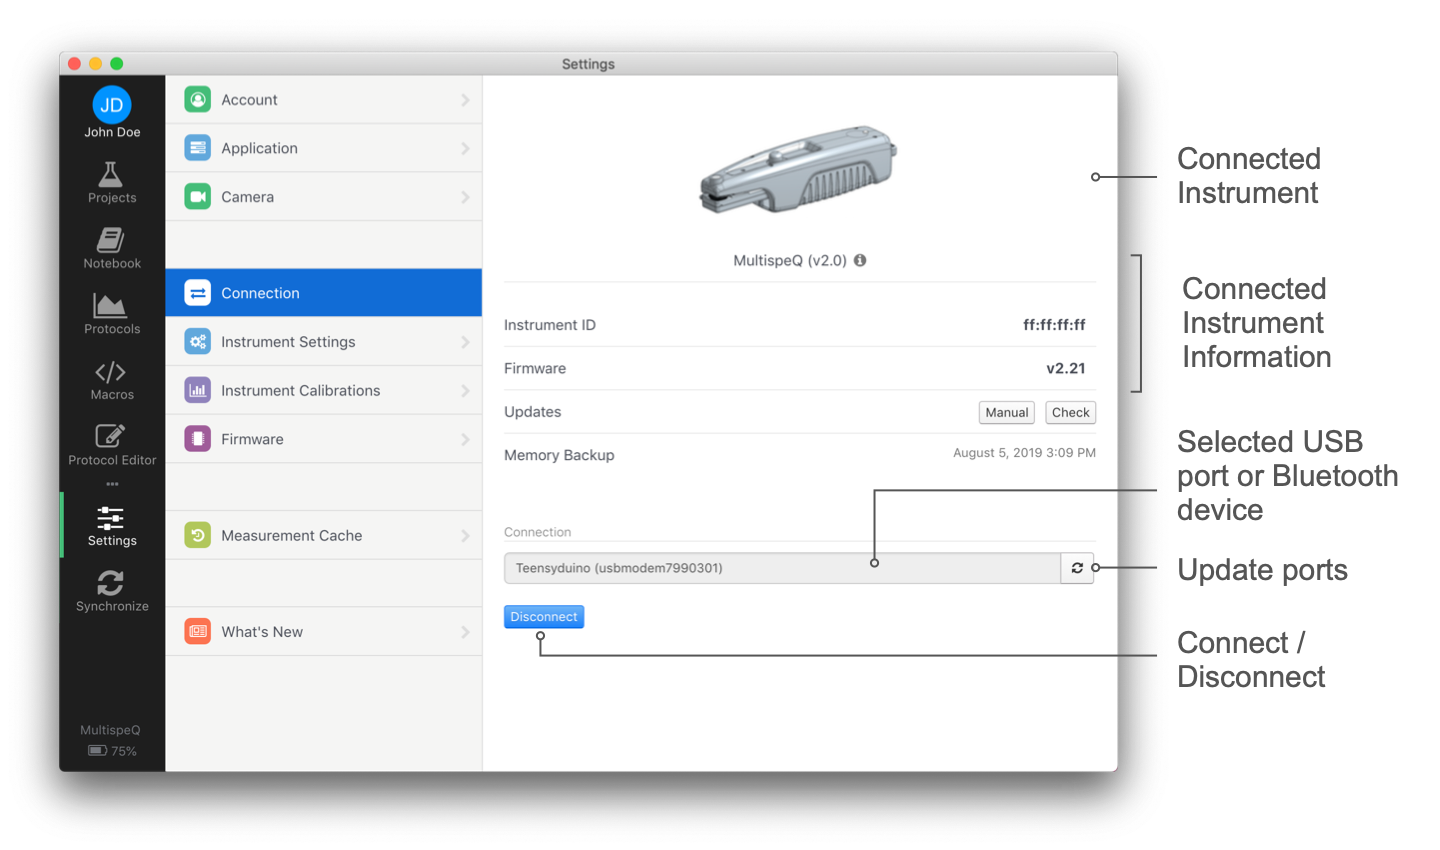
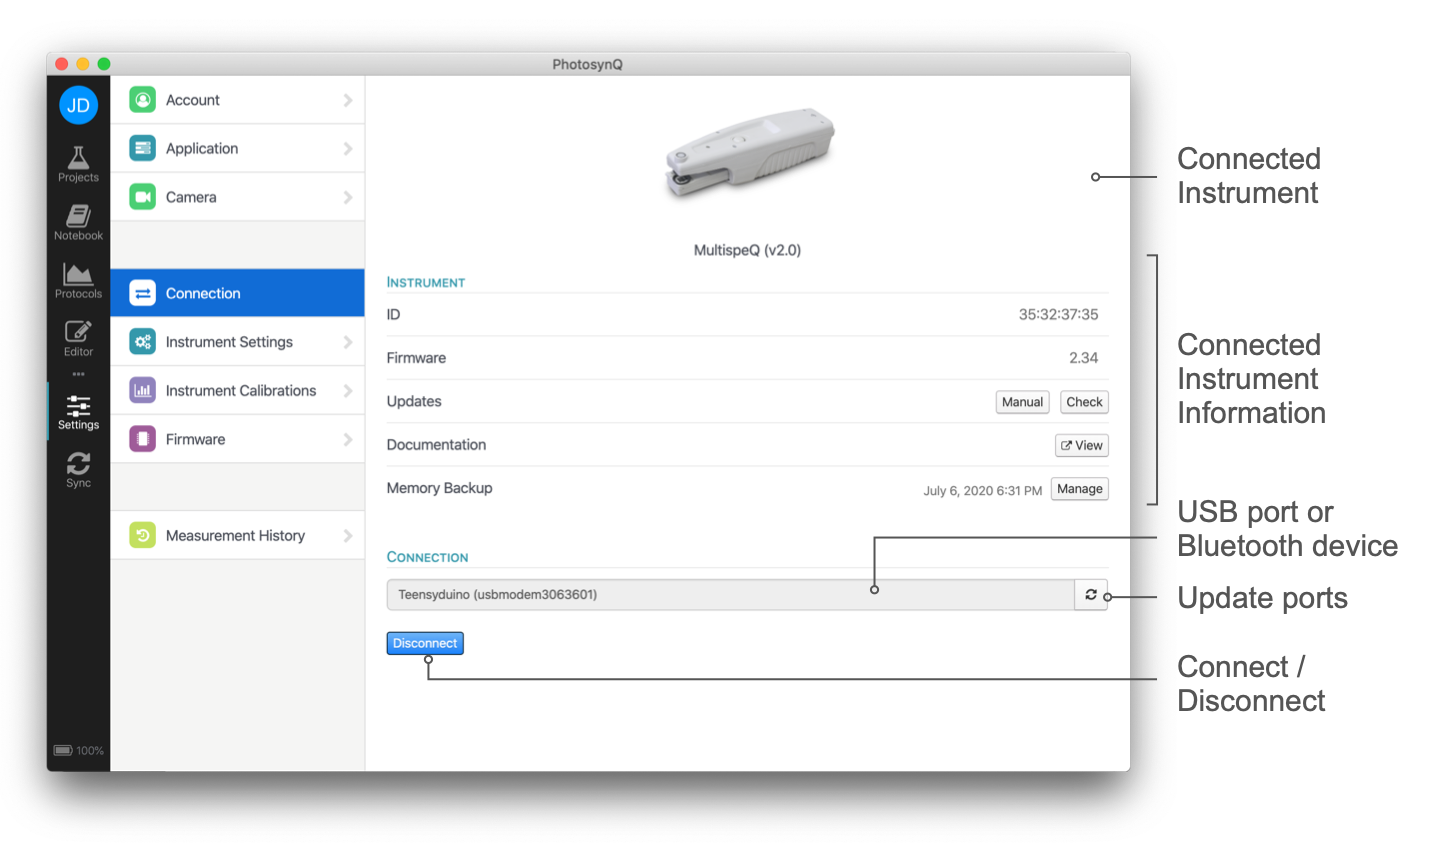
Update Desktop Application Screenshots

diff --git a/docs/macros/create-edit-a-macro.md b/docs/macros/create-edit-a-macro.md
@@ -1,44 +1,30 @@
 # Create / Edit a Macro
 
-If you want to analyze a measurement using your own calculation, create a macro to do the calculation for you. When a Protocol has a Macro associated, the Macro will calculate all parameters derived from the measurement immediately after the measurement is done. When the measurement is saved for a Project, the raw measurement is sent to the cloud where the macro will do the calculations again.
+If you want to analyze a measurement using your own calculation, utilize a Macro to do the calculation for you. A Protocol has a Macro automatically associated which will calculate all parameters derived from the measurement immediately after the measurement is done. When the measurement is saved for a Project, the raw measurement is sent to the cloud where the macro will do the calculations again. If a Protocol/Macro gets changed, all values will be recalculated again.
 
 ![The Macro Editor](./images/macro-editor.png)
 
-## Create New Macro
+## Create a Macro
 
 1. Make sure you have the Desktop Application installed and you are signed in.
-2. Select **New Macro...** from the File menu.
-3. Select a measurement from the dialog that the macro should analyze. The measurements are selected from the notebook. If you don't have a measurement saved to your notebook, take one with the protocol the macro is for save it to your notebook.
+2. Select the **Protocol** you want to create the Macro for.
+3. Attach a measurement to the Macro
+   1. Select a measurement from the Notebook that was saved using the Protocol the Macro will be created for.
+   2. Run the Protocol from the Protocol Editor and use the "Add To Editor" button after the measurement is done.
 4. Start coding...
 
-If you need more help on how to get started, please look at this [Tutorial](../tutorials/building-a-macro.md)
+If you need more help on how to get started, please look at the [example](./create-edit-a-macro.md#example-calculating-photosystem-ii-efficiency) below.
 
 ## Edit a Macro
 
-You can change one of your Macros or extend an already existing one at any time.
+You can change or extend Macros connected to a Protocol at any time.
 
-1. Select **Macros** from the left menu bar.
-2. Double click on the macro in the list or click on **Edit** in the sidebar.
+1. Select the **Protocol** you want to update the Macro for.
+2. Click on **Edit** in the sidebar.
 3. Make your changes to the code.
-4. Select **Save as...** from the File menu or use the shortcut <kbd>Ctrl/⌘</kbd>+<kbd>Shift/⇧</kbd>+<kbd>S</kbd>.
+4. Select **Save...** from the File menu or use the shortcut <kbd>Ctrl/⌘</kbd>+<kbd>S</kbd>.
 5. Update the description if needed.
-6. Save the changes by **Save As**.
-
-::: tip Tip
-In case you altered a macro someone else had made, change the name too. In this case you only have the option **Save as**.
-:::
-
-## Save a Macro
-
-Once you are done, save your work and share it with the community.
-
-1. When you have the Macro Editor open, select **Save** from the File menu or use the shortcut <kbd>Ctrl/⌘</kbd>+<kbd>S</kbd>.
-2. In the save dialog, add a macro name and description.
-3. Save the macro by selecting **Save**.
-
-## Connecting a Macro
-
-Once you have the Macro finished, you can open the Protocol in the Protocol Editor and select the Macro from the dropdown list from the menu. Then save the Protocol again to connect the Macro. Now when the Protocol is run, it will return the calculations that have been done by the Macro after the measurement is done.
+6. Save the changes by **Save**.
 
 ## After Macro Updates
 
@@ -49,12 +35,11 @@ When updating a Macro for a Protocol that is used in a Project, the update will 
 If you have issues saving the macro, make sure you check these things first:
 
 - When a Macro is done, make sure the output box is green, indicating that there was no error.
-- Make sure you have a name and description.
-- Check that the name is not already existing.
+- Check several different measurements to make sure the Macro code works with different traces/numbers.
 
 ## Example - Calculating Photosystem II efficiency
 
-In the [previous tutorial](./building-a-protocol.md) we built a protocol to measure photosystem II efficiency. Now we can build a simple macro to automatically calculate it every time you take a measurement.
+In the [protocol example](../protocols/create-edit-protocol.md#example-photosystem-ii-efficiency) we built a protocol to measure photosystem II efficiency. Now we can build a simple macro to automatically calculate it every time you take a measurement.
 
 ### Initial Code
 
@@ -82,7 +67,9 @@ return output;
 
 In order to calculate the parameters **Fs** (steady state fluorescence) and **Fmp** (maximum fluorescence), you have to access the recorded fluorescence trace. The Macro editor allows you to select the regions, by using the graph of the trace. In the example below, check range and select the region of interest. Then click on the <i class="fa fa-arrows-h"></i> icon to add the selected range into your code, `json.data_raw.slice(63,68)` in this case. We use the already pre-defined method `MathMEAN( array )` from the Function Menu to calculate the mean of the values in the selected range.
 
-![Selecting a range of values using the Macro editor](./images/macros-building-a-macro.png)
+| Select a Single Value | Select a Range of Values |
+| ------------ | -------------- |
+| ![Select a single value using the Macro Editor](./images/trace-variable.png) | ![Selecting a range of values using the Macro Editor](./images/trace-select-range.gif) |
 
 ```javascript
 var fs = MathMEAN(json.data_raw.slice(1,5));
@@ -148,25 +135,26 @@ return output;
 
 ### Output
 
-    Fs = 5817.25
-    Fmp = 13056.6
-    Phi2 = 0.554
-    LEF = 3.770
-    PAR = 17
+```
+Fs = 5817.25
+Fmp = 13056.6
+Phi2 = 0.554
+LEF = 3.770
+PAR = 17
+```
 
 [JavaScript_URL]: https://www.w3schools.com/js/
 [Desktop App]: https://photosynq.org/software#desktop
-
 
 ## Example - Advanced Macro
 
 When building a Macro for a Protocol using the `_protocol_set_` command, you start of the same way as building a macro described in the previous example ([Building a Macro](./building-a-macro.md)). But since a protocol set was used, accessing the retuned Parameters has changed a little.
 
-### The `json.set` Object
+### The `json.set` Object (Variables)
 
-The object `json` is no longer holding all the measured Parameters as shown in the previous tutorial. Instead it has a key called `set` with all Protocols from the Protocol Set. Since `json.set` is an array of Protocols, you have to provide the index as well. If you want to access the third Protocol for example, you simply use `json.set[2]`. This can get a bit confusing, when you are using multiple Protocols inside your Set. To make it more accessible, the Macro Editor provides a dropdown menu in the top menu bar with all available Protocols inside a Set numbered starting from 0. If you use the `label` command inside each protocol, you will see the label in the dropdown menu making the access easier. After selecting the Protocol from the Set, use **Variables** from the top menu, to see and access all Parameters in the selected Protocol.
+The object `json` is no longer holding all the measured Parameters as shown in the previous tutorial. Instead it has a key called `set` with all Protocols from the Protocol Set. Since `json.set` is an array of Protocols, you have to provide the index as well. If you want to access the third Protocol for example, you simply use `json.set[2]`. This can get a bit confusing, when you are using multiple Protocols inside your Set. To make it more accessible, the Macro Editor provides a tree view for variables in each Protocol the side menu bar. To show the sidebar select the <i class="fa fa-cubes"></i> Variables button from the top menu. When selecting a variable, the value as well as the path (e.g. `json.set[2]`) is shown. If you use the `label` command inside each protocol, you will see the label in the tree view making the access easier. A double click will insert the path into your code.
 
-![Use the dropdown menu to select a specific Protocol Set. You can use the Variables from the menu, as well as the selector for the Raw Traces.](./images/macros-select-protocol-from-set.png)
+![Use the tree menu to select a specific variable from a Protocol Set. You can click on a variable to view its value or the trace and double click it to insert it into the code.](./images/macros-variables-menu.png)
 
 ### Simple Protocol Set Example
 
@@ -192,7 +180,7 @@ return output;
 
 ### Multiple Detectors
 
-In the previous example for a simple for ([Building a Macro](./building-a-macro.md)) only one detector was used. But it can happen, that a measurement requires multiple detectors. This can be accomplished in two different ways as described. The number of data-points within the `data_raw` element in both examples the same, but the way the data is collected is fundamentally different (see [Detectors - Output Examples](../protocols/detectors.md#examples)).
+In the previous [example](./create-edit-a-macro.md#example-calculating-photosystem-ii-efficiency) for a simple Macro only one detector was used. But it can happen, that a measurement requires multiple detectors. This can be accomplished in two different ways as described. The number of data-points within the `data_raw` element in both examples the same, but the way the data is collected is fundamentally different (see [Detectors - Output Examples](../protocols/detectors.md#examples)).
 
 ### One Detector per Pulse-Set
 

diff --git a/docs/macros/coding-and-functions.md b/docs/macros/coding-and-functions.md
@@ -2,10 +2,13 @@
 
 ## Basic Guidelines
 
-+ Document your steps inside the code.
-+ Test your code with more than one measurement.
++ Document your steps inside the code so others can easily understand your workflow as well.
 + Make sure that the code is fast and efficient.
-+ Output only what is really necessary to not overwhelm others who will use your macro based analysis.
+  + **Time:** The runtime of your calculations (script) in milliseconds (maximum is 2000 ms).
+  + **Size:** The size is shown in kilobytes (kb). Even though currently there is no limit, try to keep it small, in the interest of future analysis of large data sets.
+  + **Elements:** The number of parameters returned. Keep this to the necessary ones, otherwise it can become quite overwhelming when viewing the data.
++ Make use of provided functions for a faster development.
++ Test your code with more than one measurement and make sure issues are captured to prevent the script from failing before it finishes.
 
 ::: warning Note
 Try to make your code efficient, since it can be used to evaluate several thousand measurements in a row.
@@ -20,14 +23,10 @@ Try to make your code efficient, since it can be used to evaluate several thousa
  * created: June 25, 2018 1:37 PM
  */
 
- // Define the output object here
+// Define the output object here
 var output = {};
 
-// Check if the key time exists in json
-if (json.time !== undefined){
-    // Add key time and value to output
-    output.time = json.time;
-}
+/* Your Code goes here */
 
 // Return data
 return output;
@@ -40,8 +39,6 @@ return output;
 + To access parameters from your Measurement use the **Variables** Menu. Variables selected will look like this: `json.variable` in the code.
 + Use the `Raw Trace` in the upper right corner to select a subsection of your trace if available.
 
-***
-
 ## Helper Functions
 
 Some functions are needed over and over again, like calculating the average, finding the maximum, etc. Just pick the function you need from the functions menu and it will get inserted at the position of your cursor into your code.
@@ -51,8 +48,6 @@ Some functions are needed over and over again, like calculating the average, fin
 var values = [1,2,3,4,5,6];
 output['Mean'] = MathMEAN(values);
 ```
-
-***
 
 ### Order Parameters
 
@@ -65,8 +60,6 @@ output["order"] = ["P1","P3","P2"];
 
 Just replace `P1`, `P2`, etc. with the names of the parameters you want to be ordered and appear on top of the list. Not all parameters need to be listed here.
 
-***
-
 ### Show additional Traces
 
 The recorded trace `json.data_raw` will be shown with a measurement. In case you would like to show some extra traces based on your calculations, just add an array to your output parameters. This array need _more than 4 values_ to be shown as a spark-line.
@@ -75,8 +68,6 @@ The recorded trace `json.data_raw` will be shown with a measurement. In case you
 // Add a trace to macro output
 output["Additional Trace"] = [1,3,4,90,87,50,3,2,1,2,7,…];
 ```
-
-***
 
 ### Show Colors
 
@@ -97,34 +88,29 @@ output['Your Parameter'] = 'rgb(52, 152, 171)';
 output['Your Parameter'] = 'rgba(52, 152, 171, 0.5)';
 ```
 
-***
-
 ### Return Feedback
 
 If people take measurements in the field, they might run into quality issues, they cannot identify right away. Based on calculations you can add messages to alert users, that they might have to repeat the measurement. Three types of messages are available:
 
-+ **Info**: Just let users know that (color:blue)
++ **Info**: Just give users some feedback on the measurement (color:blue)
 + **Warning**: Give users a warning, that there might be something wrong and they should take a closer look (color: yellow)
 + **Danger**: Use this message, when you think something went terribly wrong. In the future, measurements containing this message will be flagged as bad data points automatically. (color:red)
-
-To add messages, use the Functions menu and select the type of measurement you need. Replace the word `message` with your message.
++ Try to be short and precise.
 
 ```javascript
 // Info message
-info('message',output);
+info('Your message text',output);
 
 // Warning message
-warning('message',output);
+warning('Your message text',output);
 
 // Danger message
-danger('message',output);
+danger('Your message text',output);
 ```
 
-***
+## Restrictions
 
-### Restrictions
-
-Some of the functions available in JavaScript are not allowed to be used in macros. All functions that require a user response like `alert`, `confirm` and `prompt` are not allowed. Also defining new functions or overwriting existing functions `function(){…}` is forbidden, as well as extending the prototype library `$.prototype`.
+Some of the functions available in JavaScript are not allowed to be used in macros, like functions that require a user response like `alert`, `confirm` and `prompt`. Also overwriting existing functions, as well as extending the prototype library `$.prototype` is forbidden.
 
 [JavaScript_URL]: https://www.w3schools.com/js/
 

diff --git a/docs/macros/macro-basics.md b/docs/macros/macro-basics.md
@@ -1,6 +1,8 @@
 # Macro Basics
 
-All the macros you have developed on PhotosynQ are accessible to you at any time.
+::: warning Workflow Change
+With the latest version of the Desktop Application (v1.9.x), Protocols and Macros are saved and edited together as one unit. In contrast to previous versions, Macros are no longer accessed separately but as a part of a Protocol. However, their functionality has not changed. Previous Macros and Protocols are fully compatible with the new View and Editor and workflow.
+:::
 
 Macros are small snippets of code, which run calculations based on your measurements. They are written in the popular script language [JavaScript]. After a measurement has been taken, the data is send from the Instrument to your device and the Macro is processing the data before showing all the calculated parameters. Not every measurement requires post processing (e.g. a simple temperature measurement), but if you want to calculate a parameter from the measurement **Trace** or want to compare parameters (e.g. ambient temperature vs. leaf temperature), a Macro will calculate the parameters of interest and display the results instantly on your mobile device (e.g. a phone).
 
@@ -11,16 +13,17 @@ PhotosynQ is providing a number of pre-build functions to make it easier to buil
 ## Browser
 
 1. Go to your user profile by clicking on your user name in the top menu bar. Make sure you are signed in first.
-2. Select the **Macros** tab to get a list all of your Macros.
-3. Click on a Macro to get to the Macro page with the Macro description, the Macro Code, the Measurement data and the Comments. On the right hand-side, you will further find the Protocol category, the connected macro and compatible Instruments.
+2. Select the **Protocols** tab to get a list all of your Protocols.
+3. Click on the Protocol to get to the Protocol/Macro page with the Macro description, the Macro Code, the Measurement data and the Comments.
 
 ## Desktop
 
-1. Open you macros by selecting macros from the left menu bar or use the shortcut <kbd>Ctrl/⌘</kbd>+<kbd>4</kbd>.
-2. Click on the **My Macros** to list all your macros, if it is not already available.
-3. Click on a Macro in the list to show detailed information in the side bar.
+1. Open your Protocols by selecting Protocols from the left menu bar or use the shortcut <kbd>Ctrl/⌘</kbd>+<kbd>3</kbd>.
+2. Click on the **My Protocols** to list all your protocols, if it is not already selected.
+3. Click on a Protocol in the list to show detailed information in the side bar.
+4. Select Edit to open the Protocol and Macro code.
 
-![The list of available Macros](./images/macro-list.png)
+![The list of available Protocols with Macros](./images/macro-list.png)
 
 ::: tip Tip
 In case you want to see the work of others, select **Explore** from the top menu.
